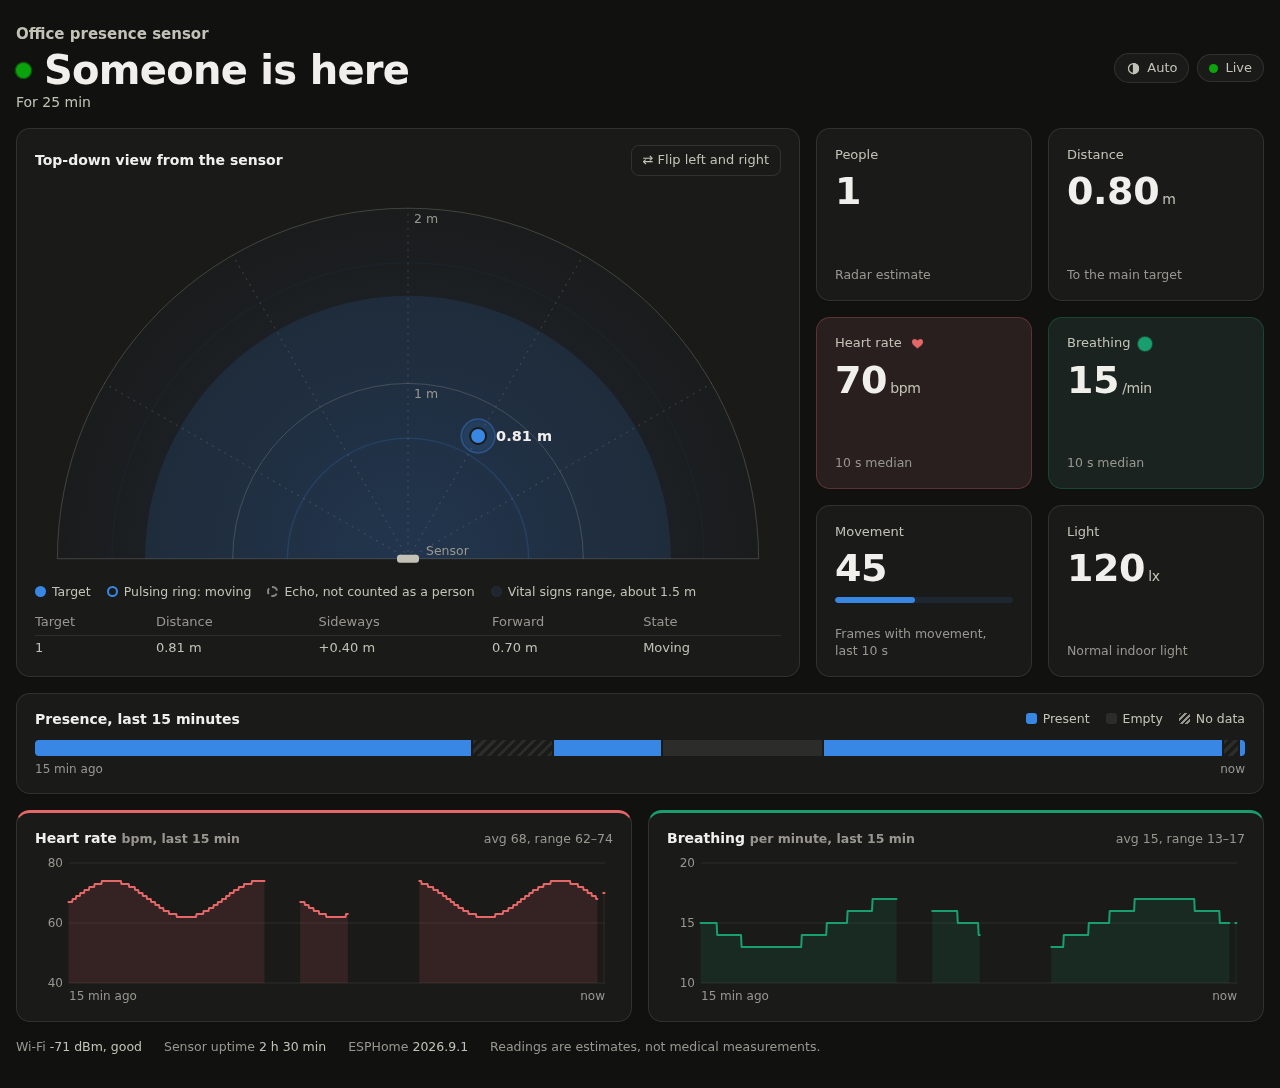
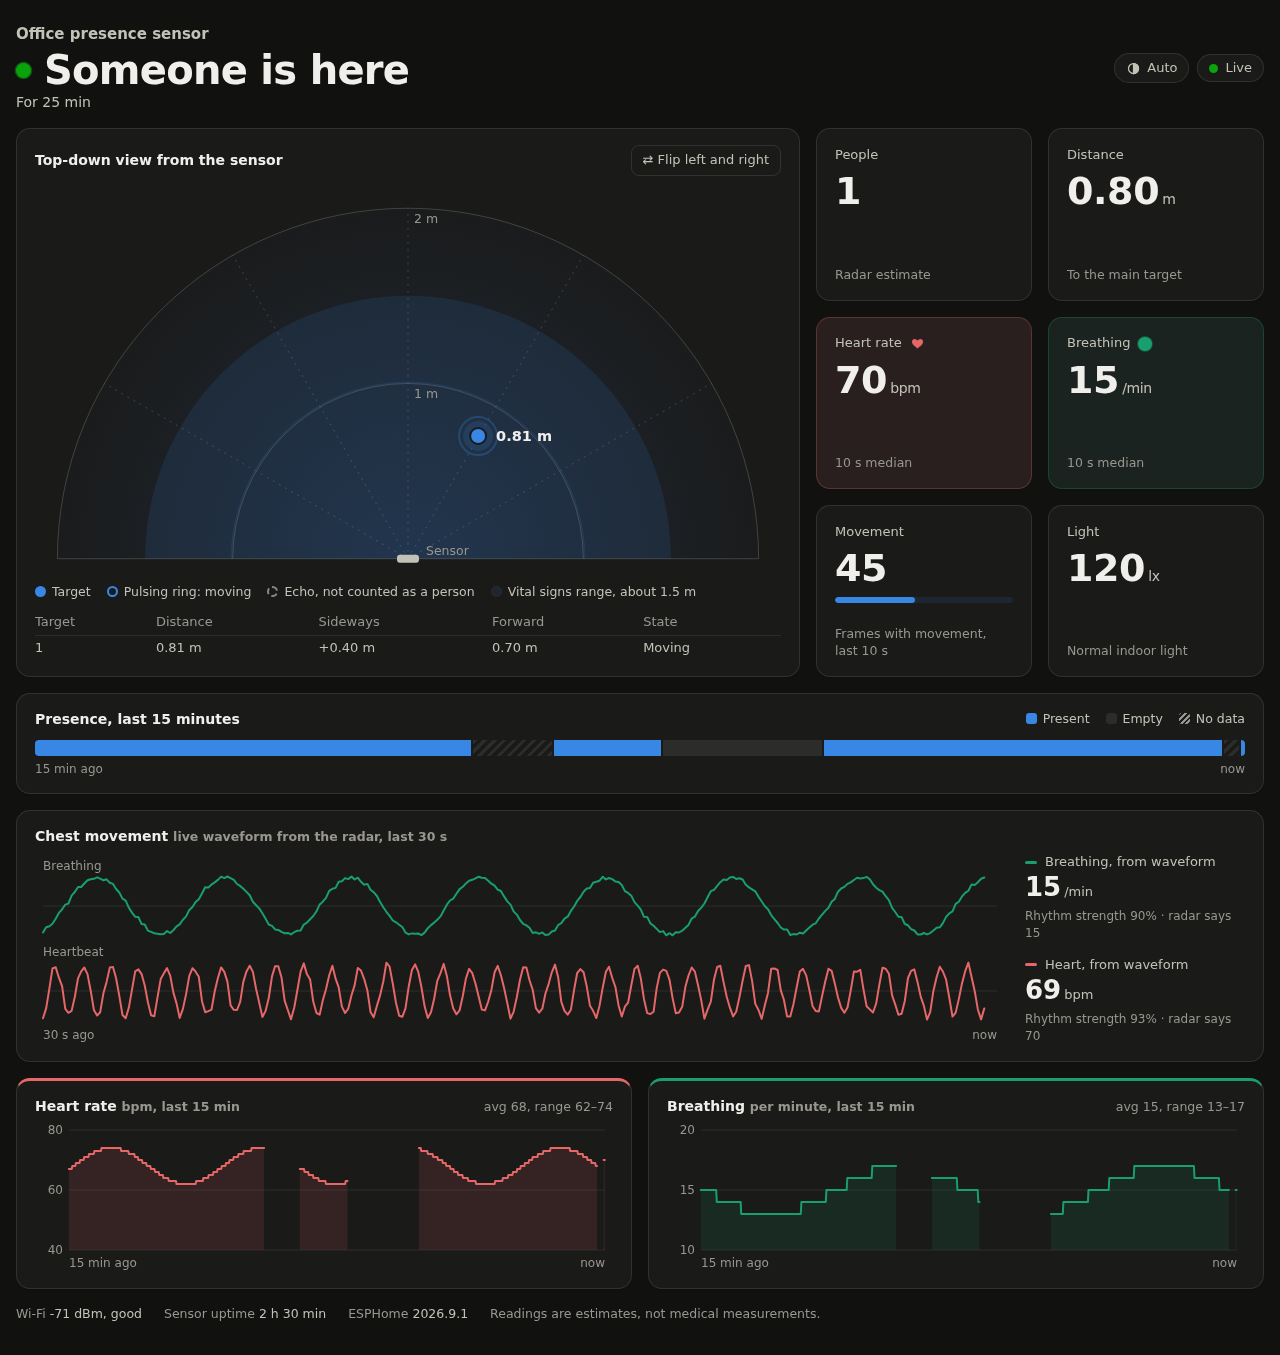
Show the radar's live breathing and heartbeat waveform, with gated rate estimates

diff --git a/web/index.html b/web/index.html
@@ -86,6 +86,19 @@ td{color:var(--text2);padding:3px 8px 3px 0;border-top:1px solid var(--grid)}
 #strip i.none{background:repeating-linear-gradient(135deg,var(--grid) 0 3px,transparent 3px 7px)}
 .strip-axis{display:flex;justify-content:space-between;font-size:12px;color:var(--muted);margin-top:5px}
 .strip-wrap .tip{top:-32px}
+.wave-card{display:grid;grid-template-columns:minmax(0,1fr) 220px;gap:6px 20px}
+.wave-head{grid-column:1/-1}
+.wave-plots{position:relative;min-width:0}
+.wave-plots svg{display:block;width:100%;height:190px}
+.wave-plots text{font:12px system-ui,sans-serif;fill:var(--muted)}
+.wave-read{display:flex;flex-direction:column;gap:14px;justify-content:center}
+.wave-read .rl{font-size:13px;color:var(--text2);display:flex;align-items:center;gap:8px}
+.wave-read .rv{font-size:26px;font-weight:600;line-height:32px;font-variant-numeric:tabular-nums}
+.wave-read .rv small{font-size:13px;font-weight:500;color:var(--text2);margin-left:3px}
+.wave-read .rv.none{font-size:14px;line-height:20px;padding:6px 0;font-weight:500;color:var(--muted)}
+.wave-read .rs{font-size:12px;color:var(--muted)}
+.sw{width:12px;height:3px;border-radius:2px;flex:none}
+@media (max-width:700px){.wave-card{grid-template-columns:minmax(0,1fr)}.wave-read{flex-direction:row;flex-wrap:wrap;gap:12px 28px}}
 .chart{position:relative;margin-top:6px}
 .chart svg{display:block;width:100%;height:150px;touch-action:pan-y}
 .chart text{font:12px system-ui,sans-serif;fill:var(--muted)}
@@ -142,6 +155,15 @@ footer b{font-weight:500;color:var(--text2)}
     </div>
     <div class="strip-wrap"><div id="strip" role="img" aria-label="Presence over the last 15 minutes"></div><div class="tip" id="stripTip"></div></div>
     <div class="strip-axis"><span>15 min ago</span><span>now</span></div>
+  </section>
+
+  <section class="card wave-card">
+    <div class="wave-head chart-head"><h2>Chest movement <span class="chart-sub">live waveform from the radar, last 30 s</span></h2></div>
+    <div class="wave-plots"><svg id="wave" viewBox="0 0 600 190" role="img" aria-label="Breathing and heartbeat waveforms from the radar over the last 30 seconds. The estimated rates are listed beside it."></svg><div class="empty" id="waveEmpty" hidden></div></div>
+    <div class="wave-read">
+      <div><div class="rl"><i class="sw" style="background:var(--breath)"></i>Breathing, from waveform</div><div class="rv" id="wBreath"></div><div class="rs" id="wBreathS"></div></div>
+      <div><div class="rl"><i class="sw" style="background:var(--heart)"></i>Heart, from waveform</div><div class="rv" id="wHeart"></div><div class="rs" id="wHeartS"></div></div>
+    </div>
   </section>
 
   <section class="trends">
@@ -465,6 +487,86 @@ function render() {
   drawTable();
 }
 
+/* ---------- chest-movement waveform (radar frame 0x0A13) ---------- */
+const WAVE_SECS = 30;
+let wave = [], waveAt = 0;  // [seq, device_ms, total, breath, heart]; waveAt = performance.now() of the newest sample
+function ingestWave(samples) {
+  for (const smp of samples || []) {
+    const last = wave.length ? wave[wave.length - 1][0] : -1;
+    if (smp[0] < last - 50) wave = [];  // sensor rebooted
+    if (!wave.length || smp[0] > wave[wave.length - 1][0]) { wave.push(smp); waveAt = performance.now(); }
+  }
+  if (wave.length) { const cut = wave[wave.length - 1][1] - (WAVE_SECS + 2) * 1000; while (wave[0][1] < cut) wave.shift(); }
+}
+let waveDrawn = 0;
+function drawWave() {
+  if (performance.now() - waveDrawn < 50) return;  // 20 fps is plenty for a 30 s window
+  waveDrawn = performance.now();
+  const svg = $('wave'), W = Math.max(240, Math.round(svg.clientWidth || 600)), H = 190, L = 8, R = 8, mid = 88, B = 20;
+  const fresh = wave.length && performance.now() - waveAt < 3000;
+  $('waveEmpty').hidden = !!fresh;
+  if (!fresh) {
+    $('waveEmpty').textContent = wave.length ? 'Waveform paused. The radar sends it while someone is in front of it.'
+      : 'Waiting for the waveform. Needs the lab firmware and a person in front of the sensor.';
+    svg.innerHTML = ''; return;
+  }
+  svg.setAttribute('viewBox', `0 0 ${W} ${H}`);
+  const tNow = wave[wave.length - 1][1] + Math.min(performance.now() - waveAt, 400);
+  const xOf = ms => L + (1 - (tNow - ms) / (WAVE_SECS * 1000)) * (W - L - R);
+  const panel = (col, top, bottom, color, name) => {
+    const pts = wave.filter(p => tNow - p[1] <= WAVE_SECS * 1000);
+    const amp = Math.max(0.05, ...pts.map(p => Math.abs(p[col]))) * 1.05, c = (top + 16 + bottom) / 2, h = (bottom - top - 16) / 2;
+    let d = '', prev = null;
+    for (const p of pts) {
+      d += (prev == null || p[1] - prev > 600 ? 'M' : 'L') + xOf(p[1]).toFixed(1) + ' ' + (c - p[col] / amp * h).toFixed(1);
+      prev = p[1];
+    }
+    return `<line x1="${L}" x2="${W - R}" y1="${c}" y2="${c}" stroke="var(--grid)"/><text x="${L}" y="${top + 11}">${name}</text>` +
+      `<path d="${d}" fill="none" stroke="${color}" stroke-width="2" stroke-linejoin="round" stroke-linecap="round"/>`;
+  };
+  svg.innerHTML = panel(3, 6, mid - 4, 'var(--breath)', 'Breathing') + panel(4, mid + 4, H - B - 2, 'var(--heart)', 'Heartbeat') +
+    `<text x="${L}" y="${H - 4}">30 s ago</text><text x="${W - R}" y="${H - 4}" text-anchor="end">now</text>`;
+}
+/* Rate from the waveform: strongest frequency in the band over the last 30 s. Shown only when one frequency
+   clearly dominates, the person's distance held steady, and two estimates in a row agree. */
+const est = { heart: { prev: null, shown: null }, breath: { prev: null, shown: null } };
+function peakRate(col, lo, hi, bw) {
+  const end = wave.length ? wave[wave.length - 1][1] : 0;
+  const pts = wave.filter(p => end - p[1] <= WAVE_SECS * 1000);
+  if (pts.length < WAVE_SECS * 7) return null;  // under ~70% of the expected samples
+  const mean = pts.reduce((a, p) => a + p[col], 0) / pts.length;
+  let total = 0, best = 0, bestF = 0; const spec = [];
+  for (let f = lo; f <= hi + 1e-9; f += 1 / 240) {
+    let c = 0, s = 0;
+    for (const p of pts) { const a = 2 * Math.PI * f * p[1] / 1000, v = p[col] - mean; c += v * Math.cos(a); s += v * Math.sin(a); }
+    const pw = c * c + s * s; spec.push([f, pw]); total += pw;
+    if (pw > best) { best = pw; bestF = f; }
+  }
+  const share = spec.filter(([f]) => Math.abs(f - bestF) <= bw).reduce((a, [, pw]) => a + pw, 0) / total;
+  return { rate: bestF * 60, share };
+}
+function updateEstimates() {
+  const dist = hDist.slice(-WAVE_SECS).map(d => d[1]).filter(v => v != null);
+  const hasDist = dist.length >= WAVE_SECS * 0.7, steady = hasDist && Math.max(...dist) - Math.min(...dist) <= 5;
+  for (const [key, col, lo, hi, bw, agree, minShare, unit, el] of [
+    ['breath', 3, 0.1, 0.6, 0.025, 2, 0.35, '/min', 'wBreath'],
+    ['heart', 4, 0.75, 2.5, 0.05, 5, 0.3, 'bpm', 'wHeart']]) {
+    const e = est[key], r = peakRate(col, lo, hi, bw);
+    let why = '';
+    if (!r) why = wave.length ? 'Not enough waveform yet' : 'No waveform';
+    else if (!hasDist) why = 'No steady distance reading';
+    else if (!steady) why = 'Distance changing, waiting for a still person';
+    else if (r.share < minShare) why = 'No clear rhythm';
+    else if (e.prev == null || Math.abs(e.prev - r.rate) > agree) why = 'Checking it holds steady';
+    e.prev = r && steady && r.share >= minShare ? r.rate : null;
+    e.shown = why ? null : r.rate;
+    const v = $(el), radar = key === 'heart' ? S.heart : S.breath;
+    if (e.shown != null) { v.className = 'rv'; v.innerHTML = `${Math.round(e.shown)}<small>${unit}</small>`; }
+    else { v.className = 'rv none'; v.textContent = why; }
+    $(el + 'S').textContent = (r ? `Rhythm strength ${Math.round(r.share * 100)}%` : '') + (radar != null ? (r ? ' · ' : '') + `radar says ${Math.round(radar)}` : '');
+  }
+}
+
 function applyState(next) {
   const t = NOW();
   lastMsg = t;
@@ -473,6 +575,7 @@ function applyState(next) {
   if (S.heart != null) lastHeartAt = t;
   if (S.breath != null) lastBreathAt = t;
   if (newFrame && S.points) ingestPoints(S.points);
+  ingestWave(S.wave_tail);
 }
 window.applyState = applyState;
 
@@ -520,6 +623,7 @@ async function boot() {
     hBreath = r.history.map(h => [h[0], h[2]]);
     hDist = r.history.map(h => [h[0], h[3]]);
     hPres = r.history.map(h => [h[0], h[4]]);
+    ingestWave(r.wave);
     for (const h of r.history) { if (h[1] != null) lastHeartAt = h[0]; if (h[2] != null) lastBreathAt = h[0]; }
     applyState(r.state);
   } catch (e) {}
@@ -527,8 +631,9 @@ async function boot() {
   es.onmessage = e => applyState(JSON.parse(e.data));
   setInterval(render, 250);
   setInterval(sample, 1000);
-  const loop = () => { drawRadar(); requestAnimationFrame(loop); };
-  loop(); render(); sample();
+  setInterval(updateEstimates, 2000);
+  const loop = () => { drawRadar(); drawWave(); requestAnimationFrame(loop); };
+  loop(); render(); sample(); updateEstimates();
 }
 boot();
 </script>

diff --git a/bridge/server.py b/bridge/server.py
@@ -22,9 +22,12 @@ log = logging.getLogger("bridge")
 state = {
     "connected": False, "presence": None, "targets": None, "distance_cm": None, "heart": None,
     "breath": None, "lux": None, "movement": None, "wifi": None, "uptime": None,
-    "points": [], "points_at": None, "firmware": None, "presence_since": None, "since_exact": False,
+    "points": [], "points_at": None, "wave_tail": [], "firmware": None, "presence_since": None, "since_exact": False,
 }
 history = deque(maxlen=HISTORY_SECS)  # [epoch_s, heart, breath, distance_cm, presence]
+# Chest-movement waveform from the radar (frame 0x0A13), about 10 samples/s: [seq, device_ms, total, breath, heart]
+wave = deque(maxlen=600)
+WAVE_TAIL = 15  # samples sent in each live update; the page merges them by seq
 version = 0
 raw_presence = None
 raw_empty_since = None
@@ -68,6 +71,22 @@ def on_presence(value, connected_at):
         set_presence(value, connected_at)
 
 
+def on_phases(text):
+    """Each update repeats the last ~12 samples, so keep only ones newer than what we have."""
+    try:
+        samples = json.loads(text)
+    except ValueError:
+        return
+    for smp in samples:
+        if len(smp) != 5:
+            continue
+        if wave and smp[0] < wave[-1][0] - 50:  # sequence restarted: the sensor rebooted
+            wave.clear()
+        if not wave or smp[0] > wave[-1][0]:
+            wave.append(smp)
+    put("wave_tail", list(wave)[-WAVE_TAIL:])
+
+
 def settle_presence():
     """Accept "empty" once the radar has reported it for EMPTY_HOLD_SECS without interruption."""
     if raw_presence is False and state["presence"] is True and time.time() - raw_empty_since >= EMPTY_HOLD_SECS:
@@ -94,7 +113,9 @@ async def sensor_loop():
                 nonlocal last_rx
                 last_rx = time.time()
                 name = names.get(s.key)
-                if name == "radar_points":
+                if name == "radar_phases":
+                    on_phases(s.state)
+                elif name == "radar_points":
                     try:
                         put("points", json.loads(s.state)[1])
                         put("points_at", round(time.time(), 2))
@@ -143,7 +164,7 @@ async def history_loop():
 
 
 async def api_state(_):
-    return web.json_response({"state": state, "history": list(history), "now": time.time()},
+    return web.json_response({"state": state, "history": list(history), "wave": list(wave), "now": time.time()},
                              headers={"Cache-Control": "no-store"})
 
 

diff --git a/README.md b/README.md
@@ -22,6 +22,8 @@ needed.
 - **Tiles:** people count, distance, heart rate (red), breathing rate (green), movement and room light.
   Heart rate and breathing are 10 s medians, because single radar frames can jump.
 - **Presence timeline:** present, empty and no-data stretches over the last 15 minutes.
+- **Chest movement:** the radar's own breathing and heartbeat waveforms, live, over the last 30 s, with
+  rates worked out from them independently of the radar's numbers (see below).
 - **Charts:** heart rate and breathing over the last 15 minutes, with average and range.
 - **Theme button:** automatic (follows your system), light or dark. The choice is remembered.
 
@@ -70,14 +72,20 @@ Two ESPHome configs are in `firmware/`:
 
 - `presence-office.original.yaml` is a cleaned-up version of Seeed's ESPHome example. It works with Home
   Assistant on its own and with this page, minus the map.
-- `presence-office.yaml` is the same plus a `radar_points` text sensor that streams the radar's point
-  cloud 10 times a second. The page needs this for the map and the target table.
+- `presence-office.yaml` is the same plus two text sensors the page needs: `radar_points` (the point
+  cloud, about 10 times a second, for the map and target table) and `radar_phases` (the chest-movement
+  waveform, for the "Chest movement" card).
 
 Both use a local copy of ESPHome's `seeed_mr60bha2` component (`firmware/components/seeed_mr60bha2`),
 with these additions:
 
 - **Point-cloud decoding.** Frame type `0x0A04` carries, per target: x and y in metres (float), a
   Doppler index (int32) and a cluster index (int32). The stock component ignores this frame.
+- **Waveform decoding.** Frame type `0x0A13` carries three floats: total, breathing and heart phase,
+  which is the chest movement the radar computes its rates from. It arrives about 10 times a second. The
+  ESPHome native API keeps only the newest value of an entity when it is busy, which lost about 1 in 6
+  samples, so each update repeats the last 12 samples with a running sequence number and the bridge
+  drops duplicates. With that, a 60 s test had no gaps.
 - **Movement tracking.** A non-zero Doppler index means something is moving, even a seated person
   breathing. Furniture reads 0. Exposed as a "Movement" sensor (frames with movement per 10 s).
 - **Steadier presence for Home Assistant.** The radar's own presence flag can stay on for hours on a
@@ -87,7 +95,8 @@ with these additions:
   and when presence clears, instead of showing an old number for hours. Zeros from the radar become
   gaps, not drops to zero.
 
-Other radar frames used: `0x0F09` presence, `0x0A14` breathing rate, `0x0A15` heart rate, `0x0A16`
+Frame layout follows Seeed's
+[Arduino library](https://github.com/Seeed-Projects/Seeed-mmWave-library). Other radar frames used: `0x0F09` presence, `0x0A14` breathing rate, `0x0A15` heart rate, `0x0A16`
 distance.
 
 ### Flashing
@@ -123,6 +132,13 @@ What the bridge does besides passing values through:
 - **Reconnects** if the sensor goes quiet for 30 s or restarts.
 - **Sends a heartbeat** every 3 s, so the page can tell "sensor offline" from "page lost connection".
 
+**Rates from the waveform (experimental).** The page takes the last 30 s of each waveform and finds its
+strongest rhythm in the normal range (6–36 breaths/min, 45–150 bpm). It shows a number only when that
+rhythm clearly dominates, the person's distance stayed within 5 cm, and two estimates 2 s apart agree;
+otherwise it says why not. "Rhythm strength" is the share of the signal in that rhythm. The radar's own
+number is shown next to it for comparison. On synthetic test signals it gives the right answer; with a
+real person it has not yet been checked against a chest strap or watch.
+
 `probe.py` is a small command-line tool that connects with the same `.env` and prints every entity and
 a stream of values, which helps when checking a new firmware.
 
@@ -132,7 +148,18 @@ The ESPHome native API accepts more than one client, so the page and Home Assist
 to the original firmware. For experiments with the lab firmware, I disabled the device in Home
 Assistant (Settings → Devices & services → ESPHome → the device → Disable) so the two weren't fighting
 over updates. To go back: flash `presence-office.original.yaml` (or keep the lab one, Home Assistant
-just gains a "Radar Points" entity) and re-enable the device.
+gains "Radar Points" and "Radar Phases" entities) and re-enable the device. Those two update about 10 times
+a second, so if you keep the lab firmware, exclude them from Home Assistant's recorder:
+
+```yaml
+recorder:
+  exclude:
+    entities:
+      - sensor.presence_office_radar_points
+      - sensor.presence_office_radar_phases
+```
+
+Check the exact entity IDs in Home Assistant; they depend on the device name.
 
 ## Known limits
 
@@ -141,6 +168,9 @@ just gains a "Radar Points" entity) and re-enable the device.
 - Two-person tracking has only been tested with demo data, not two real people.
 - The cause of the presence dropouts is unknown. They may come from the radar or from the lab firmware;
   there was too little comparable data from the original firmware to tell.
+- In the first recordings, with the person not keeping still, the heartbeat waveform was noisy and its
+  strongest rhythm jumped between about 60 and 125 bpm while the radar reported 70–99. The breathing
+  waveform was much cleaner. A test with someone sitting still is still to do.
 - History lives in memory, so restarting the container clears the charts.
 - The page has no login and shows vital signs. Keep it on your local network.
 
